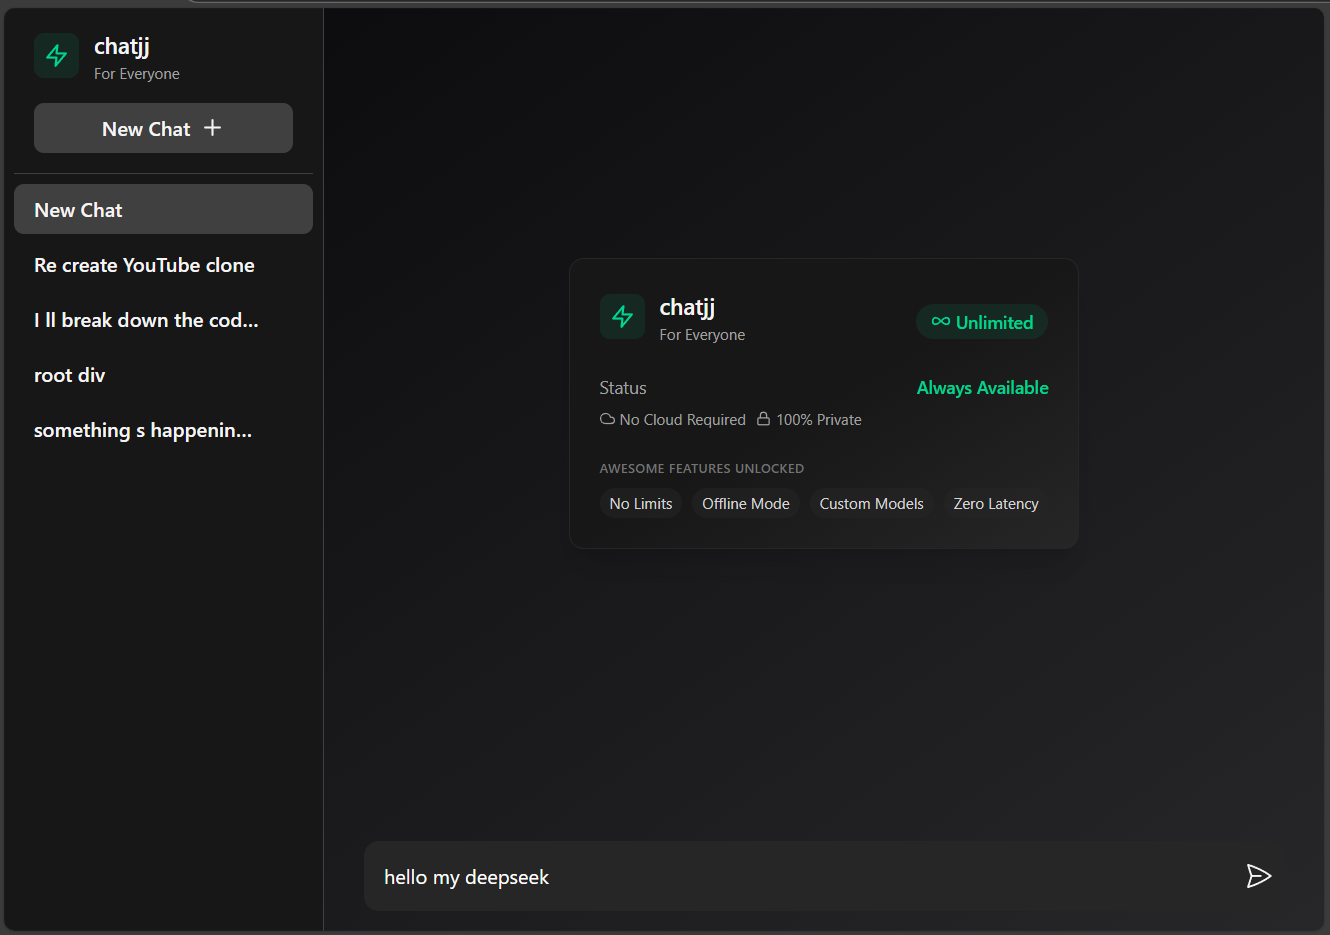
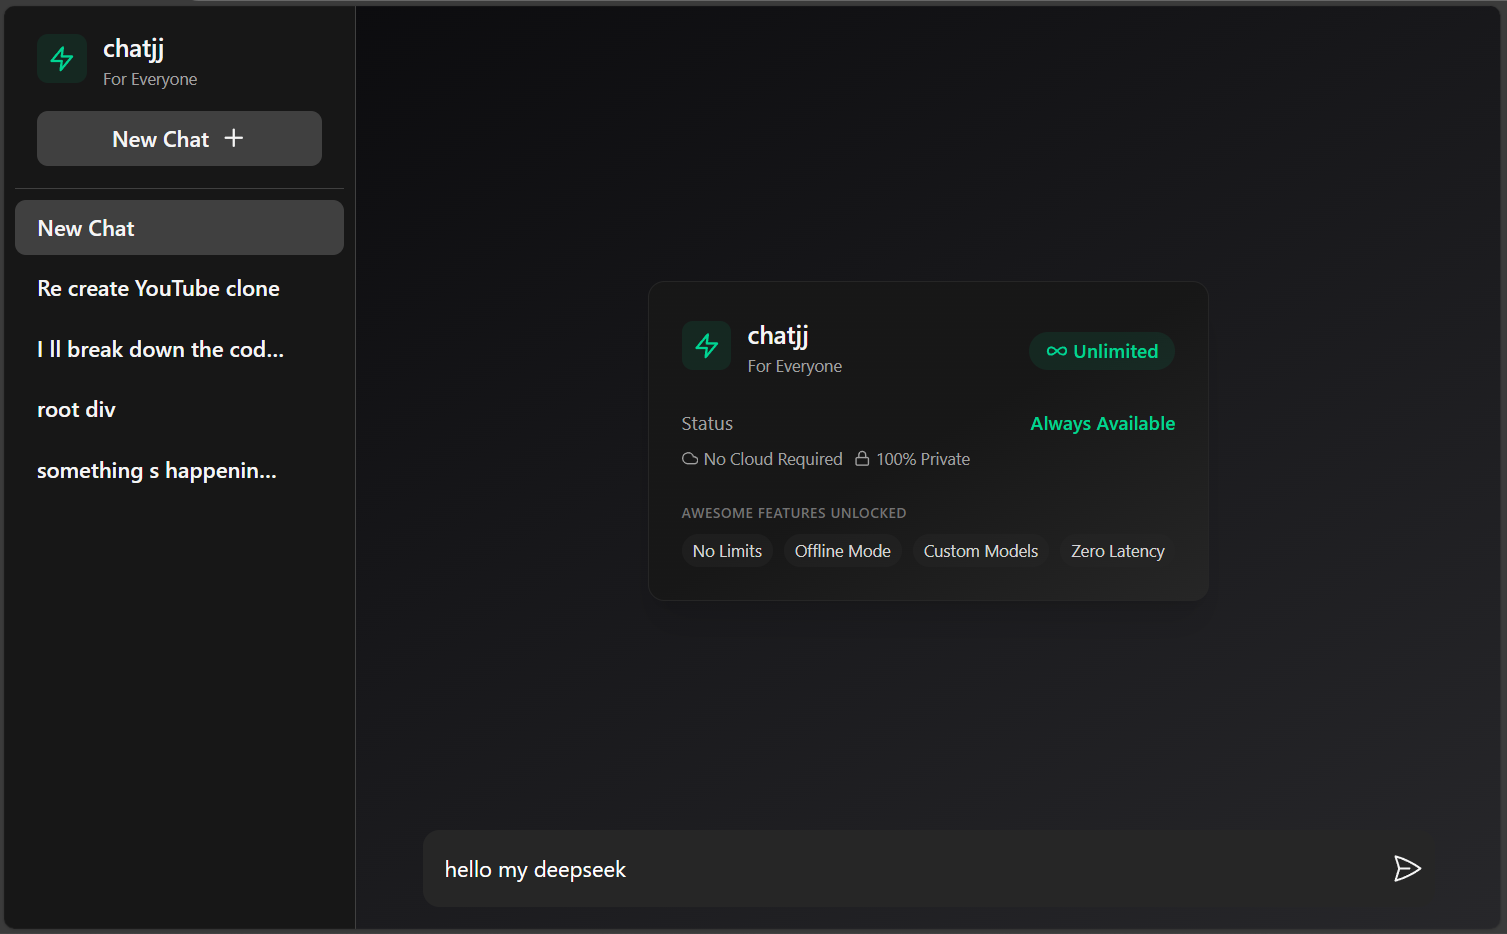
added star me component

diff --git a/src/components/ui/MyCard.tsx b/src/components/ui/MyCard.tsx
@@ -1,0 +1,19 @@
+import { GithubIcon, Star } from "lucide-react"
+
+
+const LittleFounder = () => {
+  return (
+    <a className="flex group items-center py-4 px-2 space-x-2 cursor-pointer bg-neutral-900" href="https://github.com/ebrahim-ramadan" target="_blank">
+    <img src='/me.jpg' alt='me' className="w-10 h-10 rounded-full" />
+      <div className="flex-grow">
+        <h3 className="text-sm font-semibold">Ebrahim Ramadan</h3>
+        <p className="text-[11px] text-neutral-300">creator of chatjj</p>
+      </div>
+      <div className="flex flex-col items-end bg-neutral-800 rounded-full p-2 text-neutral-200 group-hover:bg-neutral-700">
+        <GithubIcon className="w-3 h-3 text-neutral-200" strokeWidth={2} />
+      </div>
+    </a>
+  )
+}
+
+export default LittleFounder

diff --git a/src/components/ChatList.tsx b/src/components/ChatList.tsx
@@ -3,6 +3,7 @@ import type { Chat } from "../types";
 import { Link } from "react-router-dom";
 import { PlusIcon, X } from "lucide-react";
 import { ZapIcon } from "./UnlimitedUsage";
+import LittleFounder from './ui/MyCard';
 
 interface ChatListProps {
   chats: Chat[];
@@ -136,6 +137,7 @@ export default function ChatList({
             ))}
           </ul>
         </div>
+        <LittleFounder/>
       </div>
     </>
   );

diff --git a/dev-dist/sw.js b/dev-dist/sw.js
@@ -85,7 +85,7 @@ define(['./workbox-c6c6fb7c'], (function (workbox) { 'use strict';
     "revision": "3ca0b8505b4bec776b69afdba2768812"
   }, {
     "url": "index.html",
-    "revision": "0.red6nmn9sg8"
+    "revision": "0.m1u8p0l5fuo"
   }], {});
   workbox.cleanupOutdatedCaches();
   workbox.registerRoute(new workbox.NavigationRoute(workbox.createHandlerBoundToURL("index.html"), {
